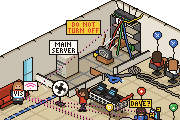
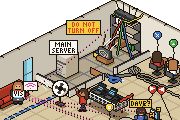
art: make the G6.1 'twice' beat readable at 390px (DIA-74) (#38)
Twins redraw for G6.1 'twice' beat; verdict reads (DIA-74). R-xx art checks, pixel parity 428/428, CI green on b63447d.

Changed region(s): [[0.75, 0.7, 0.9167, 0.9], [0.9167, 0.85, 1.0, 1.0], [0.9444, 0.325, 1.0, 0.4]]

diff --git a/art/src/sprites/band750.py b/art/src/sprites/band750.py
@@ -2,8 +2,10 @@
 
 Ground floor
   G6.1  balloon-head     one balloon on a string, a logo on it, over somebody's head.
-                         One frame per brand (`red-dot`, `blue-plus`, `blue-plus2` …);
-                         two blues are *almost* the same
+                         One frame per brand (`blue-plus`, `green-tri` …), each its own
+                         colour
+        balloon-twins    the two that are *almost* the same: two red balloons touching,
+                         one wedge mirrored, strings down to two neighbouring pit desks
         balloons-ceiling without: the ones that got away, bunched against the ceiling
                          (`drift`, 2 frames)
         portfolio-board  built: a small PORTFOLIO board on the wall, the handful of
@@ -30,20 +32,27 @@ from .poses import _place, _standing_right
 
 # -- G6.1: SaaS balloons --------------------------------------------------------------------
 
-# (fill, shade, logo) per brand. Logos are 3 x 3 marks in `paper`: nobody's real logo
-# (D-014), just enough that every balloon is a *different* product. `blue-plus` and
-# `blue-plus2` are the two that are almost the same: one colour, one mark, one pixel
-# apart.
+# (fill, shade, logo) per brand. Logos are marks in `paper`: nobody's real logo (D-014),
+# just enough that every balloon is a *different* product, each in its own colour.
+# DIA-74: the one exception is the pair that says "twice". `red-wedge` / `red-wedge2` are
+# the only red balloons in the building, same body, the same solid 5 x 5 wedge, one of
+# them mirrored: at 390px the eye finds the only matching colours in the room, then the flip.
+# (The first cut was two blues one 3 x 3 pixel apart, over the back row, beside a cyan;
+# the picture review couldn't find them.)
 BRANDS = {
-    "red-dot": ("badge-red", "shirt-3-dark", [".#.", "###", ".#."]),
+    "red-wedge": ("badge-red", "shirt-3-dark",
+                  ["#....", "###..", "#####", "###..", "#...."]),
+    "red-wedge2": ("badge-red", "shirt-3-dark",
+                   ["....#", "..###", "#####", "..###", "....#"]),
     "blue-plus": ("shirt-1", "shirt-1-dark", ["#.#", ".#.", "#.#"]),
-    "blue-plus2": ("shirt-1", "shirt-1-dark", ["#.#", ".#.", "#.."]),
     "green-tri": ("badge-green", "shirt-2-dark", ["...", ".#.", "###"]),
     "yellow-ring": ("sticky", "desk-wood", ["###", "#.#", "###"]),
     "orange-bar": ("desk-wood", "desk-wood-dark", ["...", "###", "..."]),
     "cyan-sq": ("glass", "glass-dark", ["##.", "##.", "..."]),
     "grey-check": ("badge-body", "chair-mid", ["..#", "#.#", ".#."]),
     "pink-dot": ("net", "shirt-3-dark", ["...", ".#.", "..."]),
+    "dkgreen-x": ("shirt-2-dark", "pants-1", ["#.#", "...", "#.#"]),
+    "slate-bars": ("pants-1", "outline", ["#.#", "#.#", "#.#"]),
 }
 BAL_W, BAL_H = 9, 20
 BAL_ANCHOR = (4, 20)            # the string's end, just over the head it belongs to
@@ -63,18 +72,26 @@ def _balloon(c: Canvas, x0: int, y0: int, brand: str, string: int = 0):
                 c.point(x0 + dx, y0 + dy, fill)
     for (dx, dy) in ((6, 4), (6, 5), (5, 6), (6, 3)):
         c.point(x0 + dx, y0 + dy, shade)
-    c.point(x0 + 2, y0 + 2, "paper")                     # the shine
+    big = len(logo) == 5                                 # the twins' 5 x 5 wedge
+    if not big:
+        c.point(x0 + 2, y0 + 2, "paper")                 # the shine (the wedge fills it)
+    lx, ly = (2, 1) if big else (3, 3)
     for dy, row in enumerate(logo):
         for dx, ch in enumerate(row):
             if ch == "#":
-                c.point(x0 + 3 + dx, y0 + 3 + dy, "paper")
+                c.point(x0 + lx + dx, y0 + ly + dy, "paper")
     for k in range(string):
         c.point(x0 + 4 + (1 if 3 <= k % 8 < 5 else 0), y0 + 10 + k, "outline")
+
+
+TWINS = ("red-wedge", "red-wedge2")
 
 
 def balloon_head() -> Sprite:
     frames = {}
     for brand in BRANDS:
+        if brand in TWINS:
+            continue
         c = Canvas(BAL_W, BAL_H)
         _balloon(c, 0, 0, brand, string=BAL_H - 10)
         frames[brand] = ([c], 0)
@@ -82,12 +99,37 @@ def balloon_head() -> Sprite:
     return Sprite(first, BAL_ANCHOR, anims=frames)
 
 
+# The pair is one sprite, not two heads' balloons: two desks apart on the iso diagonal the
+# reds read as two separate balloons, so they drift together to the same height between
+# the desks and touch, each string leaning back down to its own head. Anchor: the far
+# head's string end (tile (6, 4) in the layout); the near head is one pit desk on, +2
+# columns = (+32, +16) px.
+TWIN_HEAD = (32, 16)
+TWIN_TOP = -22                     # balloon tops over the far head's string end
+TWIN_X = (7, 16)                   # the two balloons' left edges, from the far head
+
+
+def twin_balloons() -> Sprite:
+    ax, ay = 2, 24                                          # the far head's string end
+    bx, by = ax + TWIN_HEAD[0], ay + TWIN_HEAD[1]
+    c = Canvas(bx + 3, by + 1)
+    for (x, head, brand, lift) in ((TWIN_X[0], (ax, ay), TWINS[0], 0),
+                                   (TWIN_X[1], (bx, by), TWINS[1], 1)):
+        x0, y0 = ax + x, ay + TWIN_TOP + lift
+        c.diag_line(x0 + 4, y0 + 10, head[0], head[1], "outline")
+        _balloon(c, x0, y0, brand, string=0)
+    return Sprite(c, (ax, ay))
+
+
 CEIL_W, CEIL_H = 44, 34
 CEIL_ANCHOR = (22, 34)
-# the ones that got away, bunched against the ceiling: (x, y, brand), back row first
+# the ones that got away, bunched against the ceiling: (x, y, brand), back row first.
+# Nine colours, none repeated and none red (DIA-74: red is the twins', and a pair in
+# here would muddy the pair over the desks). The pile says "too many"; the twins say
+# "twice".
 CEIL = [(2, 0, "cyan-sq"), (10, 1, "orange-bar"), (18, 0, "grey-check"),
-        (26, 1, "pink-dot"), (34, 0, "red-dot"),
-        (6, 6, "green-tri"), (14, 7, "blue-plus"), (22, 6, "blue-plus2"),
+        (26, 1, "pink-dot"), (34, 0, "slate-bars"),
+        (6, 6, "green-tri"), (14, 7, "blue-plus"), (22, 6, "dkgreen-x"),
         (30, 7, "yellow-ring")]
 
 
@@ -741,6 +783,7 @@ def build_all() -> dict:
     board = portfolio_board()
     return {
         "balloon-head": balloon_head(),
+        "balloon-twins": twin_balloons(),
         "balloons-ceiling": Sprite(ceil[0], CEIL_ANCHOR, anims={"drift": (ceil, 800)}),
         "portfolio-board": Sprite(board, (board.w // 2 - 6, board.h)),
         "robot": Sprite(rb["eat"][0], ROBOT_ANCHOR,

diff --git a/art/src/layout.py b/art/src/layout.py
@@ -1114,10 +1114,13 @@ def _street610(old: list) -> list:
 # the room (G6.1: "everywhere"; only the ceiling bunch is tappable, the rest are the
 # room). Built, the handful of shared balloons is tethered to a PORTFOLIO board on the
 # back wall.
+# DIA-74: the near-twins ride over the two front pit desks, (6, 4) and (8, 4), side by
+# side in the foreground of the Back desks close-up (one sprite, G6_TWINS); every other
+# head gets its own colour.
+G6_TWINS = (6, 4)
 HEAD_BALLOONS = [                      # (tile or floor point, dx, dy, brand)
-    (("t", 6, 4), -7, -30, "red-dot"), (("t", 8, 4), -7, -30, "green-tri"),
     (("t", 6, 6), -7, -30, "yellow-ring"), (("t", 8, 6), -3, -30, "orange-bar"),
-    (("t", 3, 0), -7, -30, "blue-plus"), (("t", 4, 0), -7, -30, "blue-plus2"),
+    (("t", 3, 0), -7, -30, "blue-plus"), (("t", 4, 0), -7, -30, "green-tri"),
     (("t", 8, 0), -7, -30, "cyan-sq"), (("t", 11, 6), -7, -30, "grey-check"),
     (("f", 8.95, 1.65), 0, -23, "pink-dot"),
 ]
@@ -1130,6 +1133,7 @@ def _ground750() -> list:
         mk = _t if kind == "t" else _f
         P.append(mk("balloon-head", a, b, frame=brand, dx=dx, dy=dy, layer="over",
                     states=W))
+    P.append(_t("balloon-twins", *G6_TWINS, dx=-7, dy=-30, layer="over", states=W))
     P += [
         _f("balloons-ceiling", 11.05, 0.05, dy=-10, frame="drift", depth=0.5, states=W,
            gag="G6.1", part="balloons"),
